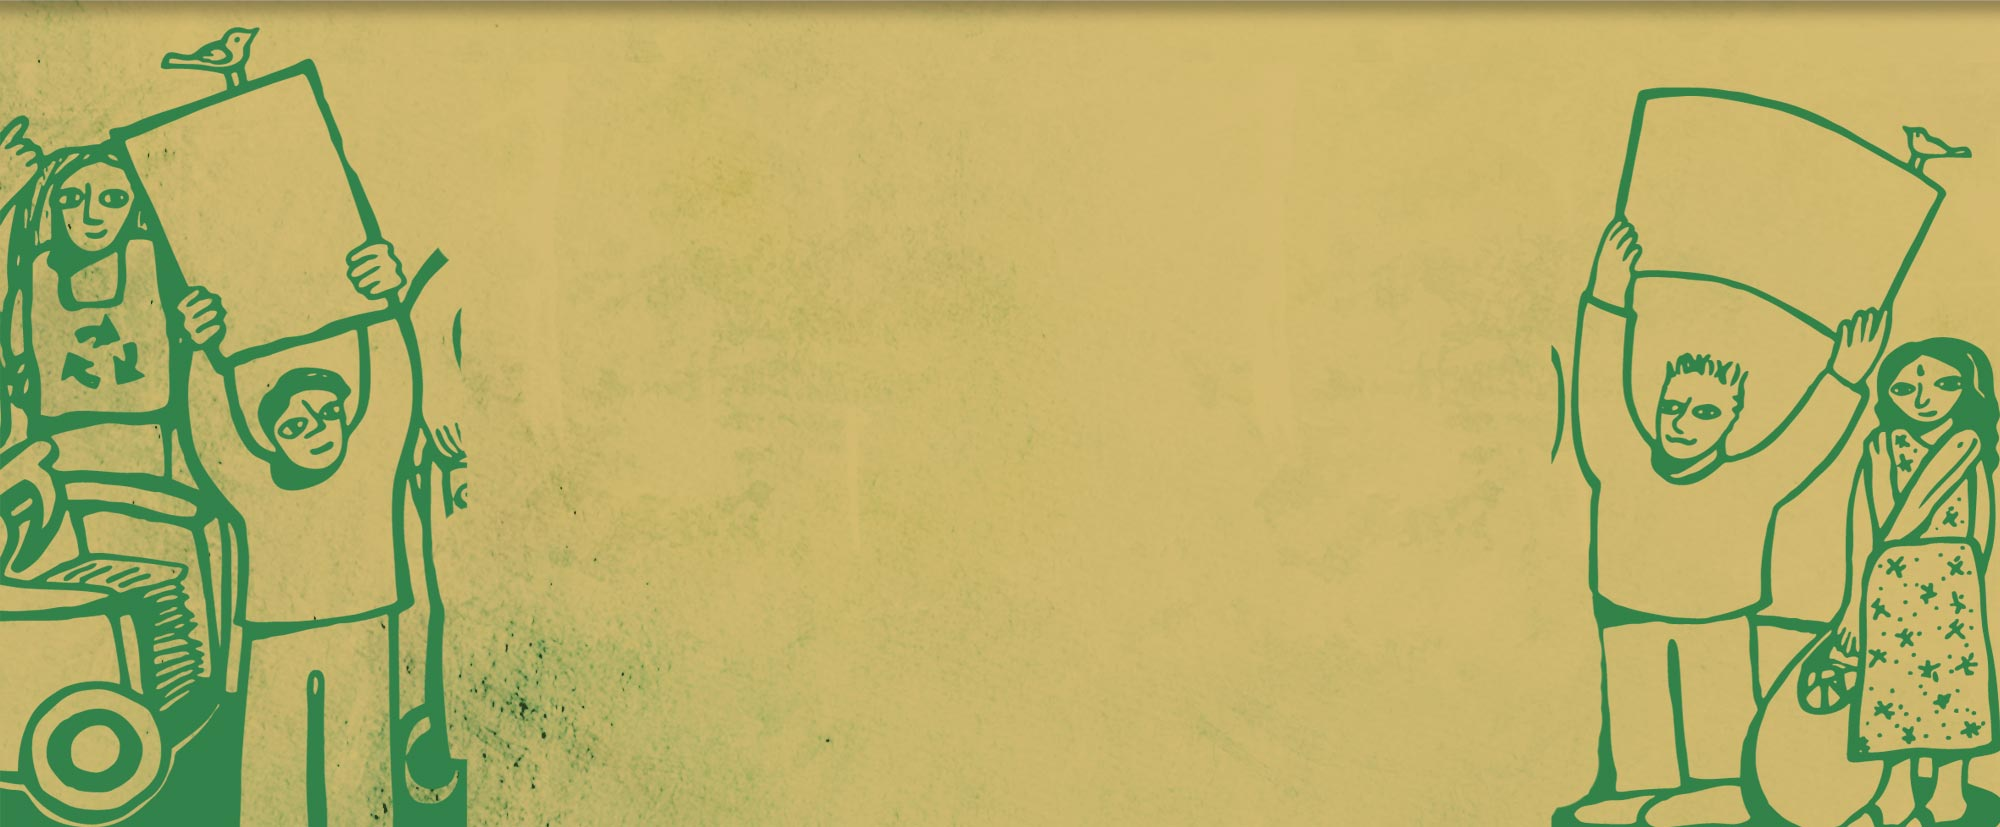
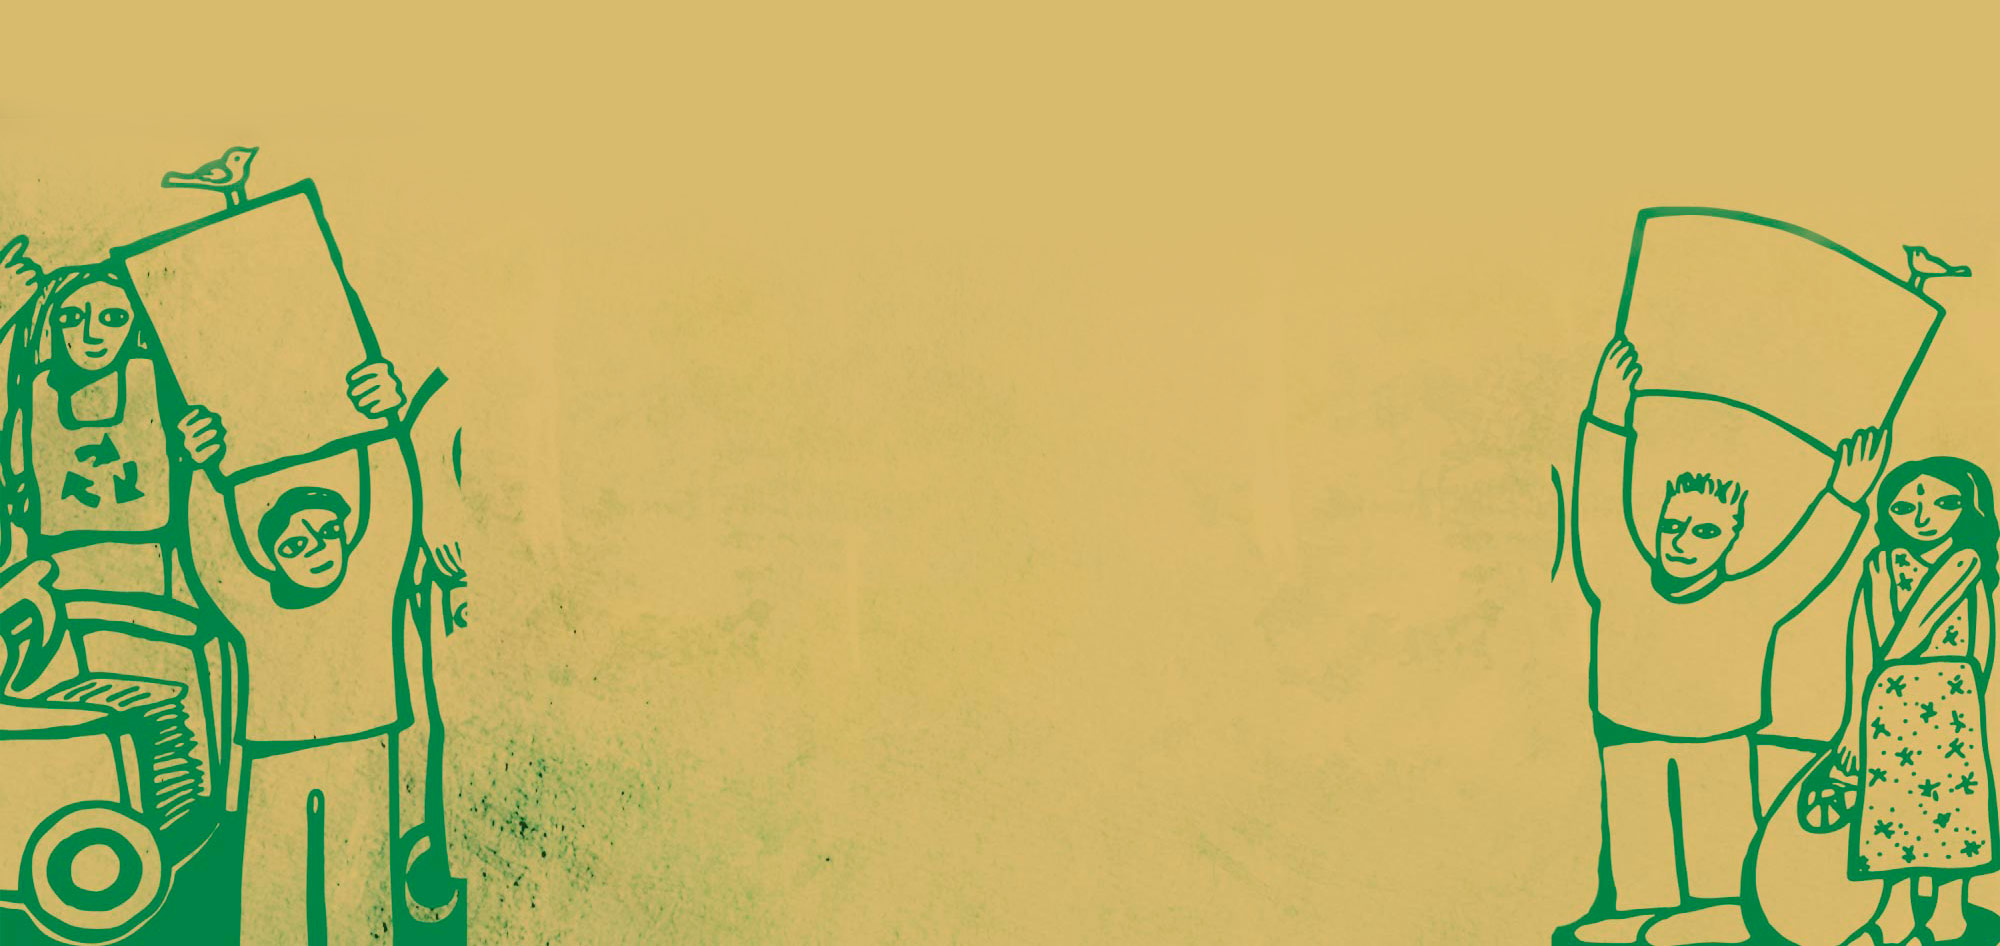
Pente fino e responsivo Home #24

diff --git a/assets/css/style.css b/assets/css/style.css
@@ -37,7 +37,8 @@ h1, h2, h3, h4, h5 {
 	height: 55px;
 	display: block;
 	position: absolute;
-	top: 0
+	top: 0;
+	width: 100%;
 }
 .navbar {
 	margin-bottom: 0;
@@ -64,6 +65,9 @@ h1, h2, h3, h4, h5 {
 	background: url( '../images/lupa.png' ) center center no-repeat transparent;
 	border: none;
 	text-indent: -999999px;
+}
+#header img {
+	width: 100%;
 }
 body.logged-in .bg-menu {
 	margin-top: 30px;
@@ -129,6 +133,9 @@ ul.about-nav li a:hover {
 	color: #FFF;
 }
 .conceito .desc h2 {
+	color: #496849;
+	font-family: "Lato",sans-serif;
+	font-weight: 300;
 	text-transform: uppercase;
 }
 .conceito .desc .border {
@@ -142,13 +149,16 @@ ul.about-nav li a:hover {
 	float: none;
 	margin: 0 auto;
 	padding-top: 40px;
-	overflow: hidden;
 }
 .rede h2 {
+	color: #496849;
+	font-family: "Lato",sans-serif;
+	font-weight: 300;
 	text-transform: uppercase;
 }
 .rede .thumb {
 	padding-top: 22px;
+	text-align: center;
 }
 .mais {
 	background-color: #496849;
@@ -182,18 +192,20 @@ ul.about-nav li a:hover {
 }
 /* Pre Footer */
 .atuacao {
-	background: url( '../images/bg-atuacao.jpg' ) center bottom fixed #f4f4f4;
+	background: url( '../images/bg-atuacao.jpg' ) center bottom fixed no-repeat #D8BB6D;
 	background-size: 100%;
 	height: 600px;
 	margin-top: 30px;
 }
 .atuacao h2 {
 	color: #FFF;
-	font-weight: bolder;
 	margin-bottom: 30px;
 	margin-left: 50px;
 	margin-top: 75px;
 	text-decoration: underline;
+	text-transform: uppercase;
+	font-family: "Lato",sans-serif;
+	font-weight: 300;
 	text-transform: uppercase;
 }
 .atuacao .btn {
@@ -248,6 +260,9 @@ ul.about-nav li a:hover {
 }
 .nav-tabs > li.active > a, .nav-tabs > li.active > a:hover, .nav-tabs > li.active > a:focus {
 	color: #496849 !important;
+}
+.creditos {
+	overflow: hidden;
 }
 /* Noícias */
 body.page-template-noticias,
@@ -795,6 +810,33 @@ body.post-type-archive-links{
 	background-size: auto 100%;
 	margin-bottom: 30px;
 	min-height: 300px;
+}
+@media screen and (max-width: 768px) {
+	/* Home */
+	.atuacao h2 {
+		text-align: center;
+		margin-left: auto;
+		margin-top: 20px;
+	}
+	ul.about-nav {
+		padding-top: 20px;
+	}
+	/* Footer */
+	.creditos {
+		padding-top: 20px;
+		padding-bottom: 20px;
+		text-align: center;
+	}
+	#footer .site-info {
+		text-align: center;
+	}
+	#footer .copy {
+		float: none;
+	}
+	#footer .brasa {
+		float: none;
+		margin: 20px auto 10px;
+	}
 }
 @media screen and (max-width: 700px) {
 	.noticias .each .desc,

diff --git a/home.php b/home.php
@@ -13,8 +13,8 @@ get_header(); ?>
 	<div id="primary" class="col-md-12">
 		<main id="main-content" class="site-main" role="main">
 
-			<div class="col-md-8 conceito">
-				<div class="col-md-3">
+			<div class="col-sm-12 col-md-8 conceito">
+				<div class="col-sm-4 col-md-3">
 
 					<?php
 						wp_nav_menu(
@@ -33,27 +33,27 @@ get_header(); ?>
 				
 				<?php $conceito = get_page_by_path( 'o-conceito', OBJECT, 'page' ); ?>
 				<?php if ( $conceito ): ?>
-					<div class="col-md-9 desc">
+					<div class="col-sm-8 col-md-9 desc">
 						<div class="border"></div>
 						<h2><?php echo $conceito->post_title; ?></h2>
 						<span><?php echo get_excerpt( $conceito->post_content, '450', ' ...' ); ?></span>
-						<a href="<?php echo get_permalink( $conceito->ID ); ?>" class="mais">Leia mais</a>
+						<a href="<?php echo get_permalink( $conceito->ID ); ?>" class="mais"><?php _e( 'Leia mais', 'odin' ); ?></a>
 					</div><!-- .desc -->
 				<?php endif ?>
 			</div><!-- .conceito -->
 
-			<div class="col-md-8 rede">
+			<div class="col-md-8 col-sm-12 rede">
 				<?php $rede = get_page_by_path( 'rede-internacional', OBJECT, 'page' ); ?>
 				<?php if ( $rede ): ?>
 					<div class="col-md-4 thumb">
 						<a href="<?php echo get_permalink( $rede->ID ); ?>">
-							<?php echo get_the_post_thumbnail( $rede->ID, 'medium' ); ?>
+							<?php echo get_the_post_thumbnail( $rede->ID, 'thumb-600-300' ); ?>
 						</a>
 					</div><!-- .thumb -->
 					<div class="col-md-8 desc">
 						<h2><?php echo $rede->post_title; ?></h2>
 						<span><?php echo get_excerpt( $rede->post_content, '400', ' ...' ); ?></span>
-						<a href="<?php echo get_permalink( $rede->ID ); ?>" class="mais">Leia mais</a>
+						<a href="<?php echo get_permalink( $rede->ID ); ?>" class="mais"><?php _e( 'Leia mais', 'odin' ); ?></a>
 					</div><!-- rede -->
 				<?php endif ?>
 			</div><!-- .rede -->

diff --git a/footer.php b/footer.php
@@ -28,7 +28,7 @@
 					 <?php endif ?>
 				<?php endif ?>
 			</div><!-- .site-info -->
-			<div class="col-md-4">
+			<div class="col-sm-12 col-md-4 creditos">
 				<a href="http://brasa.art.br/" target="_blank"><span class="brasa"></span></a><span class="copy">Todos os Direitos Reservados &copy;</span>
 			</div>
 
